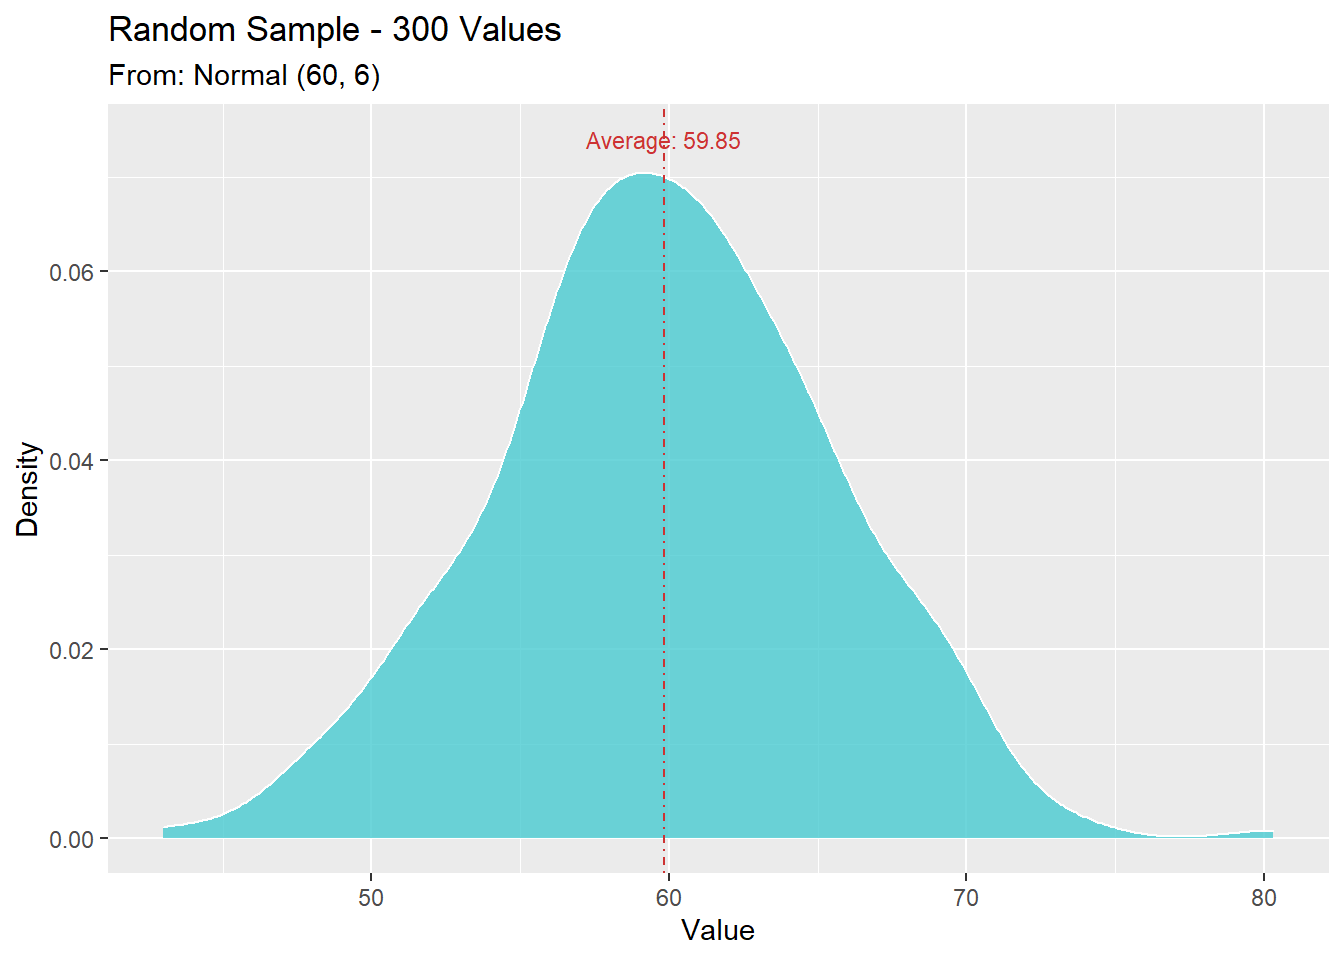
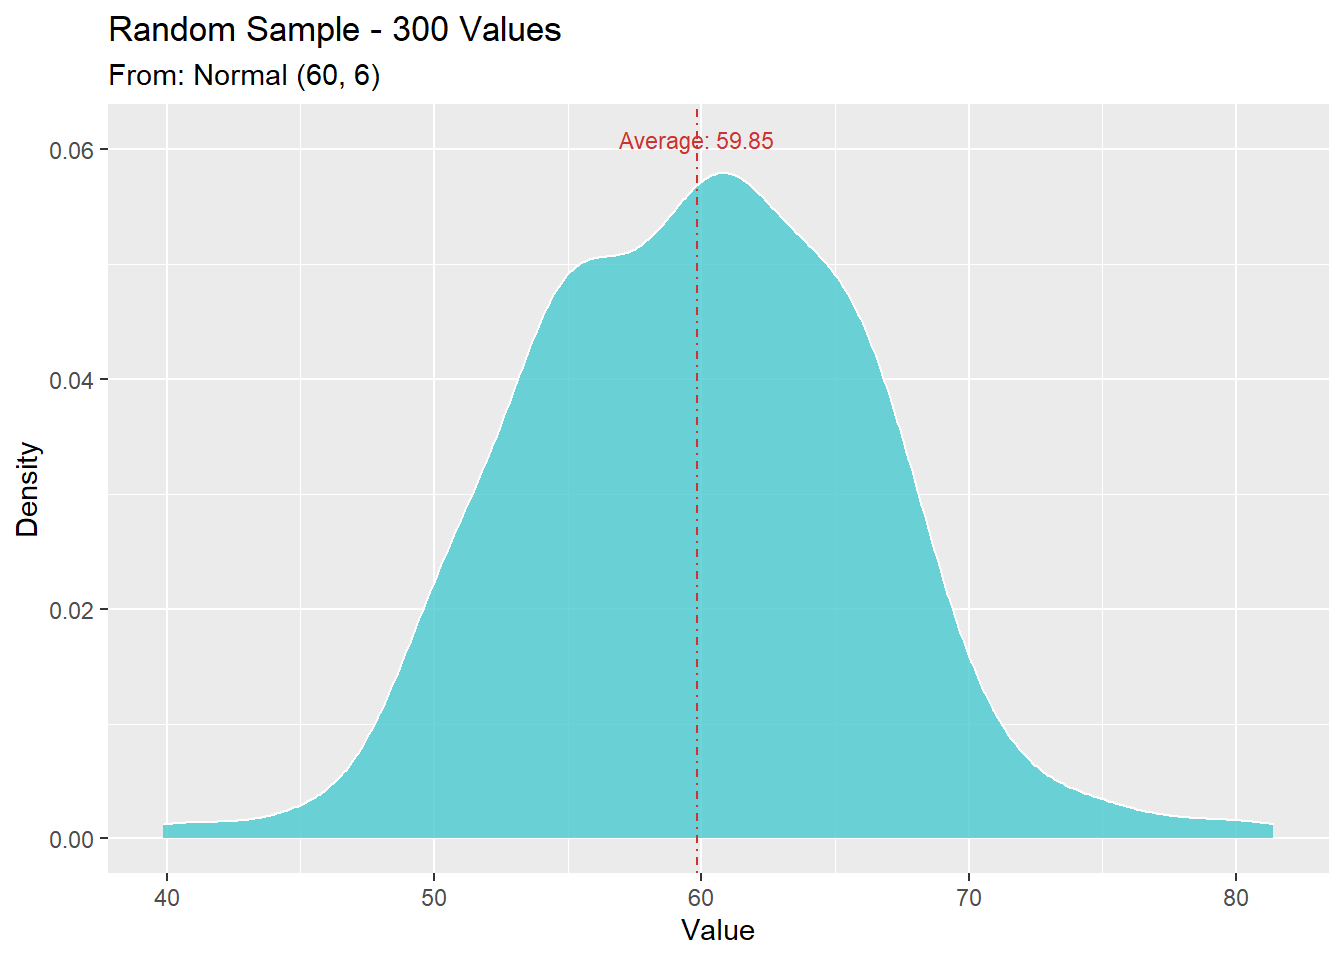
normal dist 6

diff --git a/משתנים-מקריים-והתפלגויות.html b/משתנים-מקריים-והתפלגויות.html
@@ -250,7 +250,7 @@ code span.wa { color: #60a0b0; font-weight: bold; font-style: italic; } /* Warni
 <p>דוגמה: נדגום 10 פעמים מתוך התפלגות גיאומטרית עם סיכוי 1/6 להצלחה.
 כמה כשלונות לפני ההצלחה הראשונה יהיו בכל אחד מהמקרים?</p>
 <div class="sourceCode" id="cb2"><pre class="sourceCode r"><code class="sourceCode r"><span id="cb2-1"><a href="משתנים-מקריים-והתפלגויות.html#cb2-1" aria-hidden="true" tabindex="-1"></a><span class="fu">rgeom</span>(<span class="at">n=</span><span class="dv">10</span>, <span class="at">prob=</span><span class="dv">1</span><span class="sc">/</span><span class="dv">6</span>)</span></code></pre></div>
-<pre><code>##  [1]  1  7  9  2  5  5 26  0  8  2</code></pre>
+<pre><code>##  [1] 2 7 2 1 0 9 0 2 5 1</code></pre>
 <h3>
 מציאת הסתברות ספציפית
 </h3>
@@ -298,7 +298,7 @@ code span.wa { color: #60a0b0; font-weight: bold; font-style: italic; } /* Warni
 <p>דוגמה: נדגום 5 פעמים מתוך התפלגות בינומית הכוללת 10 ניסויי ברנולי עם הסתברות 1/3 להצלחה.
 כמה הצלחות יהיו בכל אחד מהמקרים?</p>
 <div class="sourceCode" id="cb13"><pre class="sourceCode r"><code class="sourceCode r"><span id="cb13-1"><a href="משתנים-מקריים-והתפלגויות.html#cb13-1" aria-hidden="true" tabindex="-1"></a><span class="fu">rbinom</span>(<span class="at">n=</span><span class="dv">5</span>, <span class="at">size=</span><span class="dv">10</span>, <span class="at">prob=</span><span class="dv">1</span><span class="sc">/</span><span class="dv">3</span>)</span></code></pre></div>
-<pre><code>## [1] 4 1 2 1 4</code></pre>
+<pre><code>## [1] 2 4 5 5 4</code></pre>
 <h3>
 מציאת הסתברות ספציפית
 </h3>
@@ -353,10 +353,11 @@ code span.wa { color: #60a0b0; font-weight: bold; font-style: italic; } /* Warni
 <span id="cb24-4"><a href="משתנים-מקריים-והתפלגויות.html#cb24-4" aria-hidden="true" tabindex="-1"></a>norm_sample <span class="ot">&lt;-</span> <span class="fu">rnorm</span>(<span class="at">n=</span>n, <span class="at">mean=</span>mean, <span class="at">sd=</span>sd)</span>
 <span id="cb24-5"><a href="משתנים-מקריים-והתפלגויות.html#cb24-5" aria-hidden="true" tabindex="-1"></a><span class="co"># print the first 20 items</span></span>
 <span id="cb24-6"><a href="משתנים-מקריים-והתפלגויות.html#cb24-6" aria-hidden="true" tabindex="-1"></a><span class="fu">print</span>(norm_sample[<span class="dv">0</span><span class="sc">:</span><span class="dv">20</span>])</span></code></pre></div>
-<pre><code>##  [1] 50.22647 61.06118 53.99419 62.58490 61.52588 65.09431 57.13254 59.40566
-##  [9] 64.44678 53.70777 65.35533 69.78320 64.68916 69.62671 68.69896 60.87683
-## [17] 51.78426 62.06211 55.21474 64.00502</code></pre>
-<p><em>שימו לב שממוצע ההתפלגות לא יהיה 60, אלא רק קרוב ל60, ההתפלגות הנורמלית התיאורטית מייצגת אין סוף ערכים, בעוד שאנחנו דגמנו דגימה מקרית עם מספר סופי של ערכים.</em> <br>
+<pre><code>##  [1] 63.52851 54.26803 61.11081 64.79751 54.94801 54.25879 56.04299 57.19151
+##  [9] 52.35227 60.41590 65.20297 62.33934 58.79540 56.75307 57.23969 73.94141
+## [17] 51.81752 65.67561 49.81019 56.41982</code></pre>
+<p>אלו היו עשרים הערכים הראשונים מתוך 300 הערכים במדגם.
+<em>שימו לב שממוצע המדגם לא יהיה 60, אלא רק קרוב ל60, ההתפלגות הנורמלית התיאורטית מייצגת אין סוף ערכים, בעוד שאנחנו דגמנו מקרית מספר סופי של ערכים.</em> <br>
 <em>גם סטיית התקן של המדגם תהיה קרובה ל-6 ולא זהה ל-6. בדיוק מאותה סיבה.</em> <br>
 <em>כמו כן, צורת ההתפלגות <b>קרובה</b> לנורמלית</em></p>
 <p><img src="R-Tutorials_files/figure-html/unnamed-chunk-20-1.png" width="672" style="display: block; margin: auto auto auto 0;" /></p>
@@ -367,20 +368,19 @@ code span.wa { color: #60a0b0; font-weight: bold; font-style: italic; } /* Warni
 <p>דוגמא: הצפיפות של הערך 175, מתוך התפלגות נורמלית עם תוחלת 170 וסטיית תקן 5</p>
 <div class="sourceCode" id="cb27"><pre class="sourceCode r"><code class="sourceCode r"><span id="cb27-1"><a href="משתנים-מקריים-והתפלגויות.html#cb27-1" aria-hidden="true" tabindex="-1"></a><span class="fu">dnorm</span>(<span class="at">x=</span><span class="dv">175</span>, <span class="at">mean=</span><span class="dv">170</span>, <span class="at">sd=</span><span class="dv">5</span>)</span></code></pre></div>
 <pre><code>## [1] 0.04839414</code></pre>
-<div class="sourceCode" id="cb29"><pre class="sourceCode r"><code class="sourceCode r"><span id="cb29-1"><a href="משתנים-מקריים-והתפלגויות.html#cb29-1" aria-hidden="true" tabindex="-1"></a><span class="fu">draw_norm</span>(<span class="dv">170</span>,<span class="dv">5</span>,<span class="at">marked_n =</span> <span class="dv">175</span>)</span></code></pre></div>
-<p><img src="R-Tutorials_files/figure-html/unnamed-chunk-21-1.png" width="672" style="display: block; margin: auto auto auto 0;" /></p>
+<p><img src="R-Tutorials_files/figure-html/unnamed-chunk-22-1.png" width="672" style="display: block; margin: auto auto auto 0;" /></p>
 <h3>
 מציאת הסתברות מצטברת עד ערך
 </h3>
 <pre><code>pnorm(q, mean = 0, sd = 1, lower.tail = TRUE, log.p = FALSE)</code></pre>
 <p>דוגמא: ההסתברות לדגום ערך שקטן או שווה ל-120 מתוך התפלגות נורמלית עם תוחלת 100 וסטיית תקן 12. <br>
 <em>הערה - שימו לב שמדובר ב<b>הסתברות מצטברת</b>, ולא בצפיפות, אפילו שמדובר בהתפלגות רציפה</em></p>
-<div class="sourceCode" id="cb31"><pre class="sourceCode r"><code class="sourceCode r"><span id="cb31-1"><a href="משתנים-מקריים-והתפלגויות.html#cb31-1" aria-hidden="true" tabindex="-1"></a>q<span class="ot">=</span><span class="dv">120</span></span>
-<span id="cb31-2"><a href="משתנים-מקריים-והתפלגויות.html#cb31-2" aria-hidden="true" tabindex="-1"></a>mean<span class="ot">=</span><span class="dv">100</span></span>
-<span id="cb31-3"><a href="משתנים-מקריים-והתפלגויות.html#cb31-3" aria-hidden="true" tabindex="-1"></a>sd<span class="ot">=</span><span class="dv">12</span></span>
-<span id="cb31-4"><a href="משתנים-מקריים-והתפלגויות.html#cb31-4" aria-hidden="true" tabindex="-1"></a><span class="fu">pnorm</span>(<span class="at">q =</span> q, <span class="at">mean =</span> mean, <span class="at">sd =</span> sd)</span></code></pre></div>
+<div class="sourceCode" id="cb30"><pre class="sourceCode r"><code class="sourceCode r"><span id="cb30-1"><a href="משתנים-מקריים-והתפלגויות.html#cb30-1" aria-hidden="true" tabindex="-1"></a>q<span class="ot">=</span><span class="dv">120</span></span>
+<span id="cb30-2"><a href="משתנים-מקריים-והתפלגויות.html#cb30-2" aria-hidden="true" tabindex="-1"></a>mean<span class="ot">=</span><span class="dv">100</span></span>
+<span id="cb30-3"><a href="משתנים-מקריים-והתפלגויות.html#cb30-3" aria-hidden="true" tabindex="-1"></a>sd<span class="ot">=</span><span class="dv">12</span></span>
+<span id="cb30-4"><a href="משתנים-מקריים-והתפלגויות.html#cb30-4" aria-hidden="true" tabindex="-1"></a><span class="fu">pnorm</span>(<span class="at">q =</span> q, <span class="at">mean =</span> mean, <span class="at">sd =</span> sd)</span></code></pre></div>
 <pre><code>## [1] 0.9522096</code></pre>
-<p><img src="R-Tutorials_files/figure-html/unnamed-chunk-23-1.png" width="672" style="display: block; margin: auto auto auto 0;" /></p>
+<p><img src="R-Tutorials_files/figure-html/unnamed-chunk-24-1.png" width="672" style="display: block; margin: auto auto auto 0;" /></p>
 <h3>
 מציאת ערך תואם להתסברות מצטברת (מאון)
 </h3>
@@ -388,14 +388,14 @@ code span.wa { color: #60a0b0; font-weight: bold; font-style: italic; } /* Warni
 <p>דוגמא: עבור איזה ערך מתוך התפלגות נורמלית עם תוחלת 200 וסטיית תקן 30, ההתסתברות המצטברת היא 50%? (כלומר, עד אליו יתקבלו 50% מהערכים). <br>
 במילים אחרות - מה הוא הערך במאון ה-50 (החציון) עבור התפלגות נורמלית זו. <br>
 <em>הערה - זאת הפונקציה ההופכית של pnorm. הפונקציה pnorm מקבלת ערך ומחזירה את הההסתברות המצבטרת עד אליו, qnorm מקבלת הסתברות מצטברת ומחזירה את הערך התואם אליה</em></p>
-<div class="sourceCode" id="cb34"><pre class="sourceCode r"><code class="sourceCode r"><span id="cb34-1"><a href="משתנים-מקריים-והתפלגויות.html#cb34-1" aria-hidden="true" tabindex="-1"></a>p<span class="ot">=</span><span class="fl">0.5</span></span>
-<span id="cb34-2"><a href="משתנים-מקריים-והתפלגויות.html#cb34-2" aria-hidden="true" tabindex="-1"></a>mean<span class="ot">=</span><span class="dv">200</span></span>
-<span id="cb34-3"><a href="משתנים-מקריים-והתפלגויות.html#cb34-3" aria-hidden="true" tabindex="-1"></a>sd<span class="ot">=</span><span class="dv">30</span></span>
-<span id="cb34-4"><a href="משתנים-מקריים-והתפלגויות.html#cb34-4" aria-hidden="true" tabindex="-1"></a>q <span class="ot">=</span> <span class="fu">qnorm</span>(<span class="at">p =</span> p, <span class="at">mean =</span> mean, <span class="at">sd =</span> sd)</span>
-<span id="cb34-5"><a href="משתנים-מקריים-והתפלגויות.html#cb34-5" aria-hidden="true" tabindex="-1"></a><span class="fu">print</span>(q)</span></code></pre></div>
+<div class="sourceCode" id="cb33"><pre class="sourceCode r"><code class="sourceCode r"><span id="cb33-1"><a href="משתנים-מקריים-והתפלגויות.html#cb33-1" aria-hidden="true" tabindex="-1"></a>p<span class="ot">=</span><span class="fl">0.5</span></span>
+<span id="cb33-2"><a href="משתנים-מקריים-והתפלגויות.html#cb33-2" aria-hidden="true" tabindex="-1"></a>mean<span class="ot">=</span><span class="dv">200</span></span>
+<span id="cb33-3"><a href="משתנים-מקריים-והתפלגויות.html#cb33-3" aria-hidden="true" tabindex="-1"></a>sd<span class="ot">=</span><span class="dv">30</span></span>
+<span id="cb33-4"><a href="משתנים-מקריים-והתפלגויות.html#cb33-4" aria-hidden="true" tabindex="-1"></a>q <span class="ot">=</span> <span class="fu">qnorm</span>(<span class="at">p =</span> p, <span class="at">mean =</span> mean, <span class="at">sd =</span> sd)</span>
+<span id="cb33-5"><a href="משתנים-מקריים-והתפלגויות.html#cb33-5" aria-hidden="true" tabindex="-1"></a><span class="fu">print</span>(q)</span></code></pre></div>
 <pre><code>## [1] 200</code></pre>
 <p>בהתפלגות נורלית תיאורטית התוחלת שווה לחציון (וגם לשכיח) ולכן הערך במאון ה-50 יהיה 200.
-<img src="R-Tutorials_files/figure-html/unnamed-chunk-25-1.png" width="672" style="display: block; margin: auto auto auto 0;" /></p>
+<img src="R-Tutorials_files/figure-html/unnamed-chunk-26-1.png" width="672" style="display: block; margin: auto auto auto 0;" /></p>
 <p><a href="https://stat.ethz.ch/R-manual/R-devel/library/stats/html/Normal.html" target="_blank">התיעוד הרשמי של הפונקציות dnorm, rnorm, pnorm, qnorm</a> <br></p>
 
 </div>
